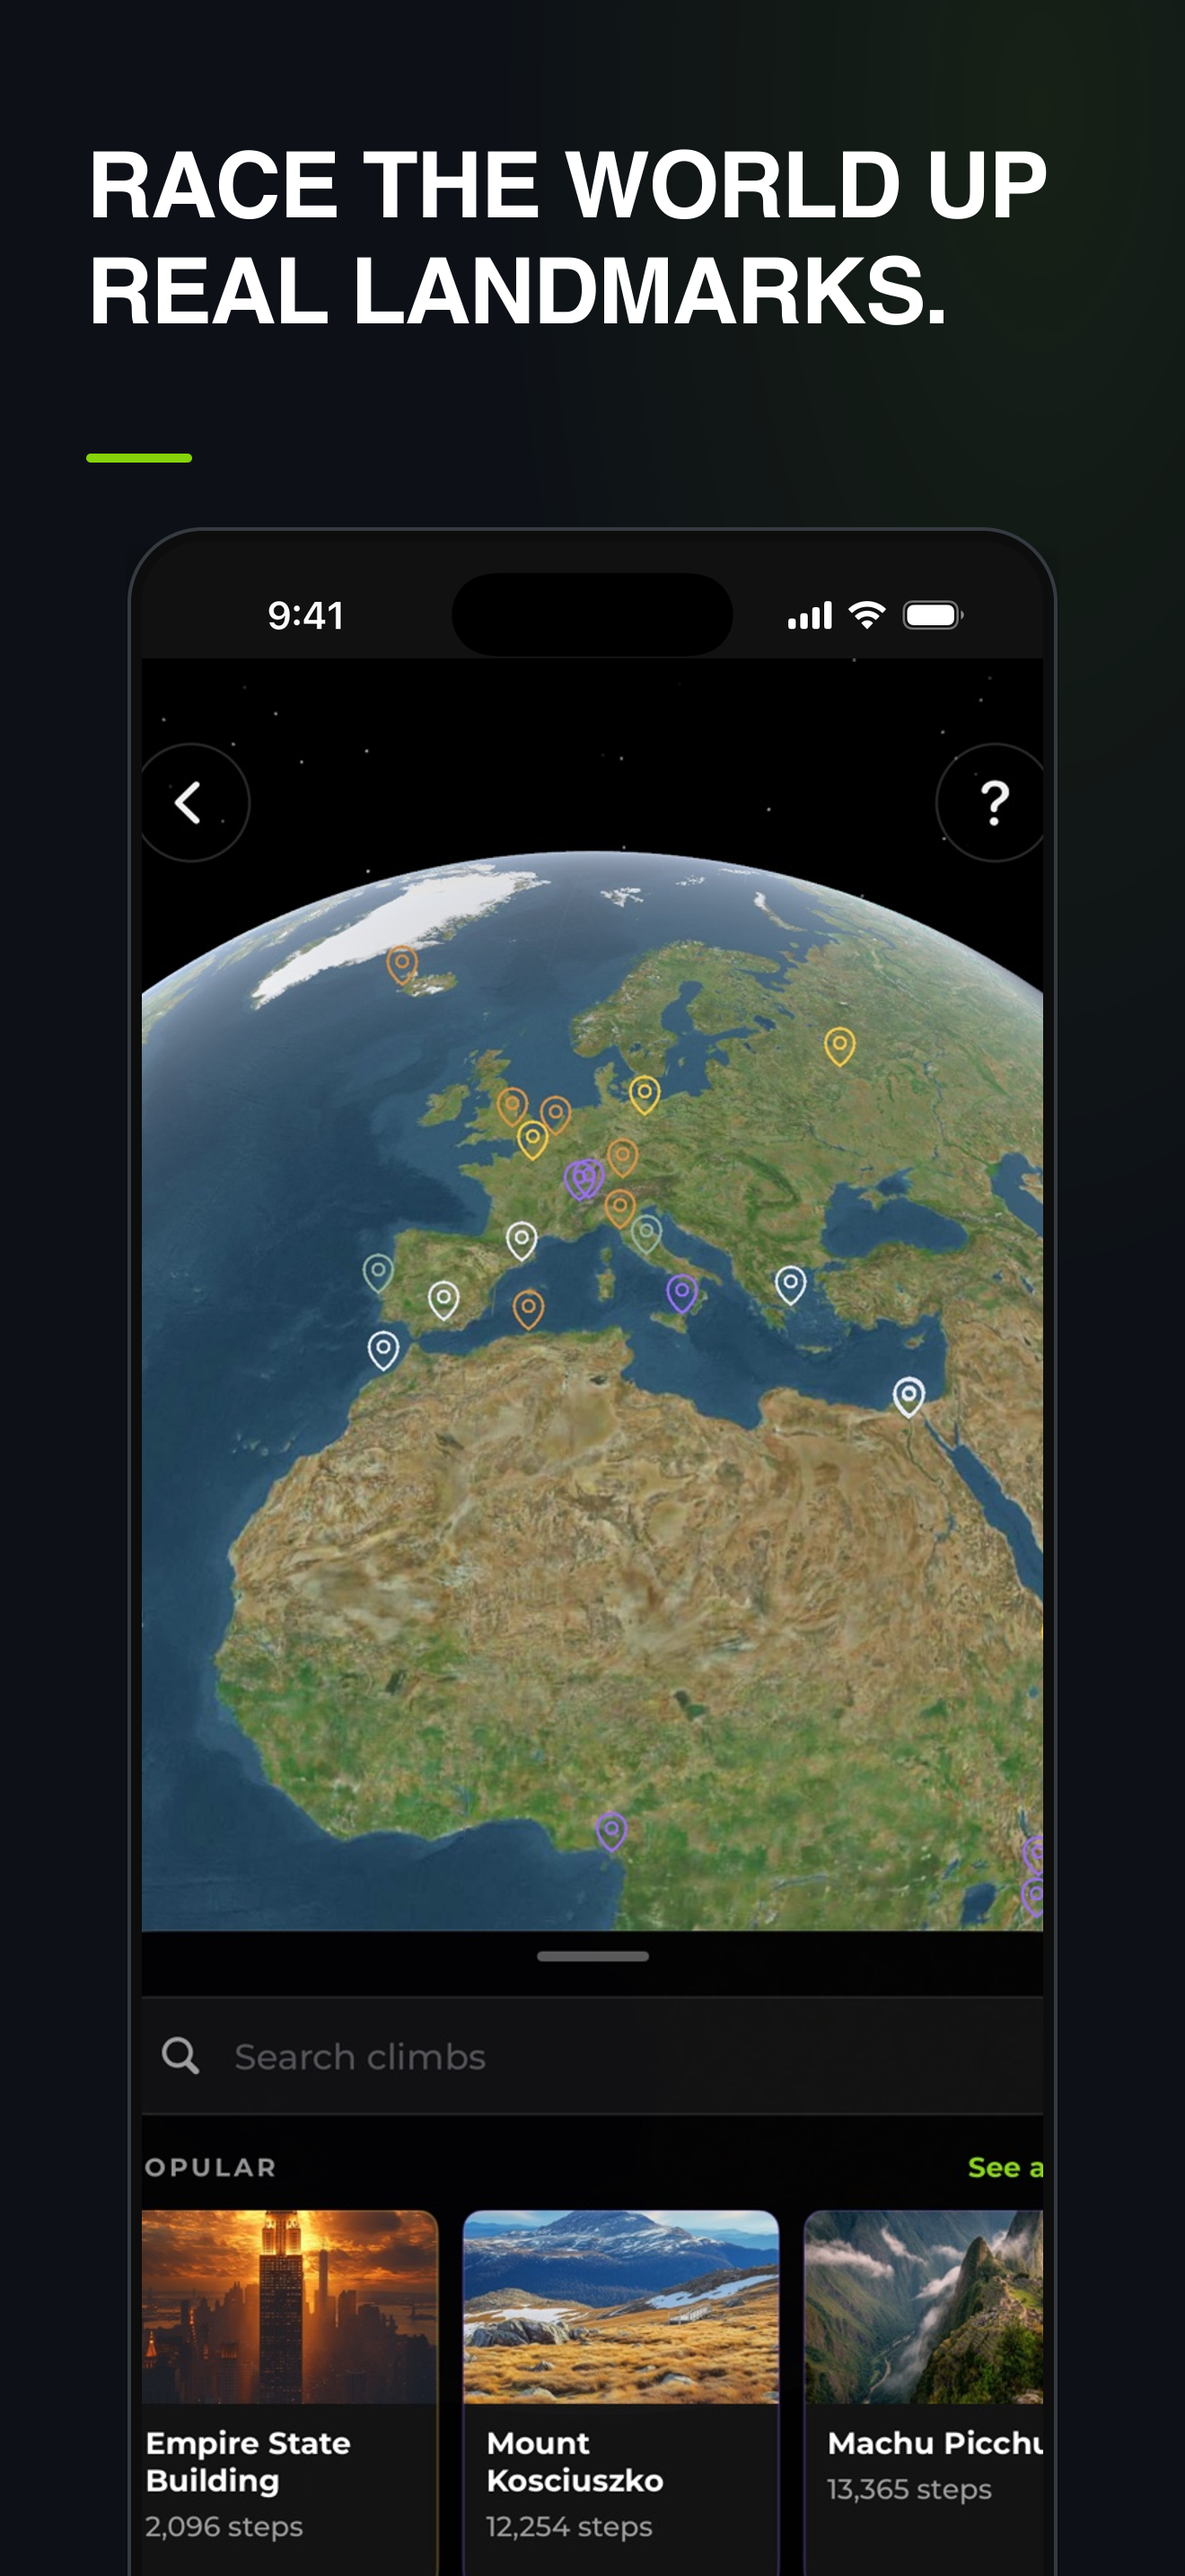
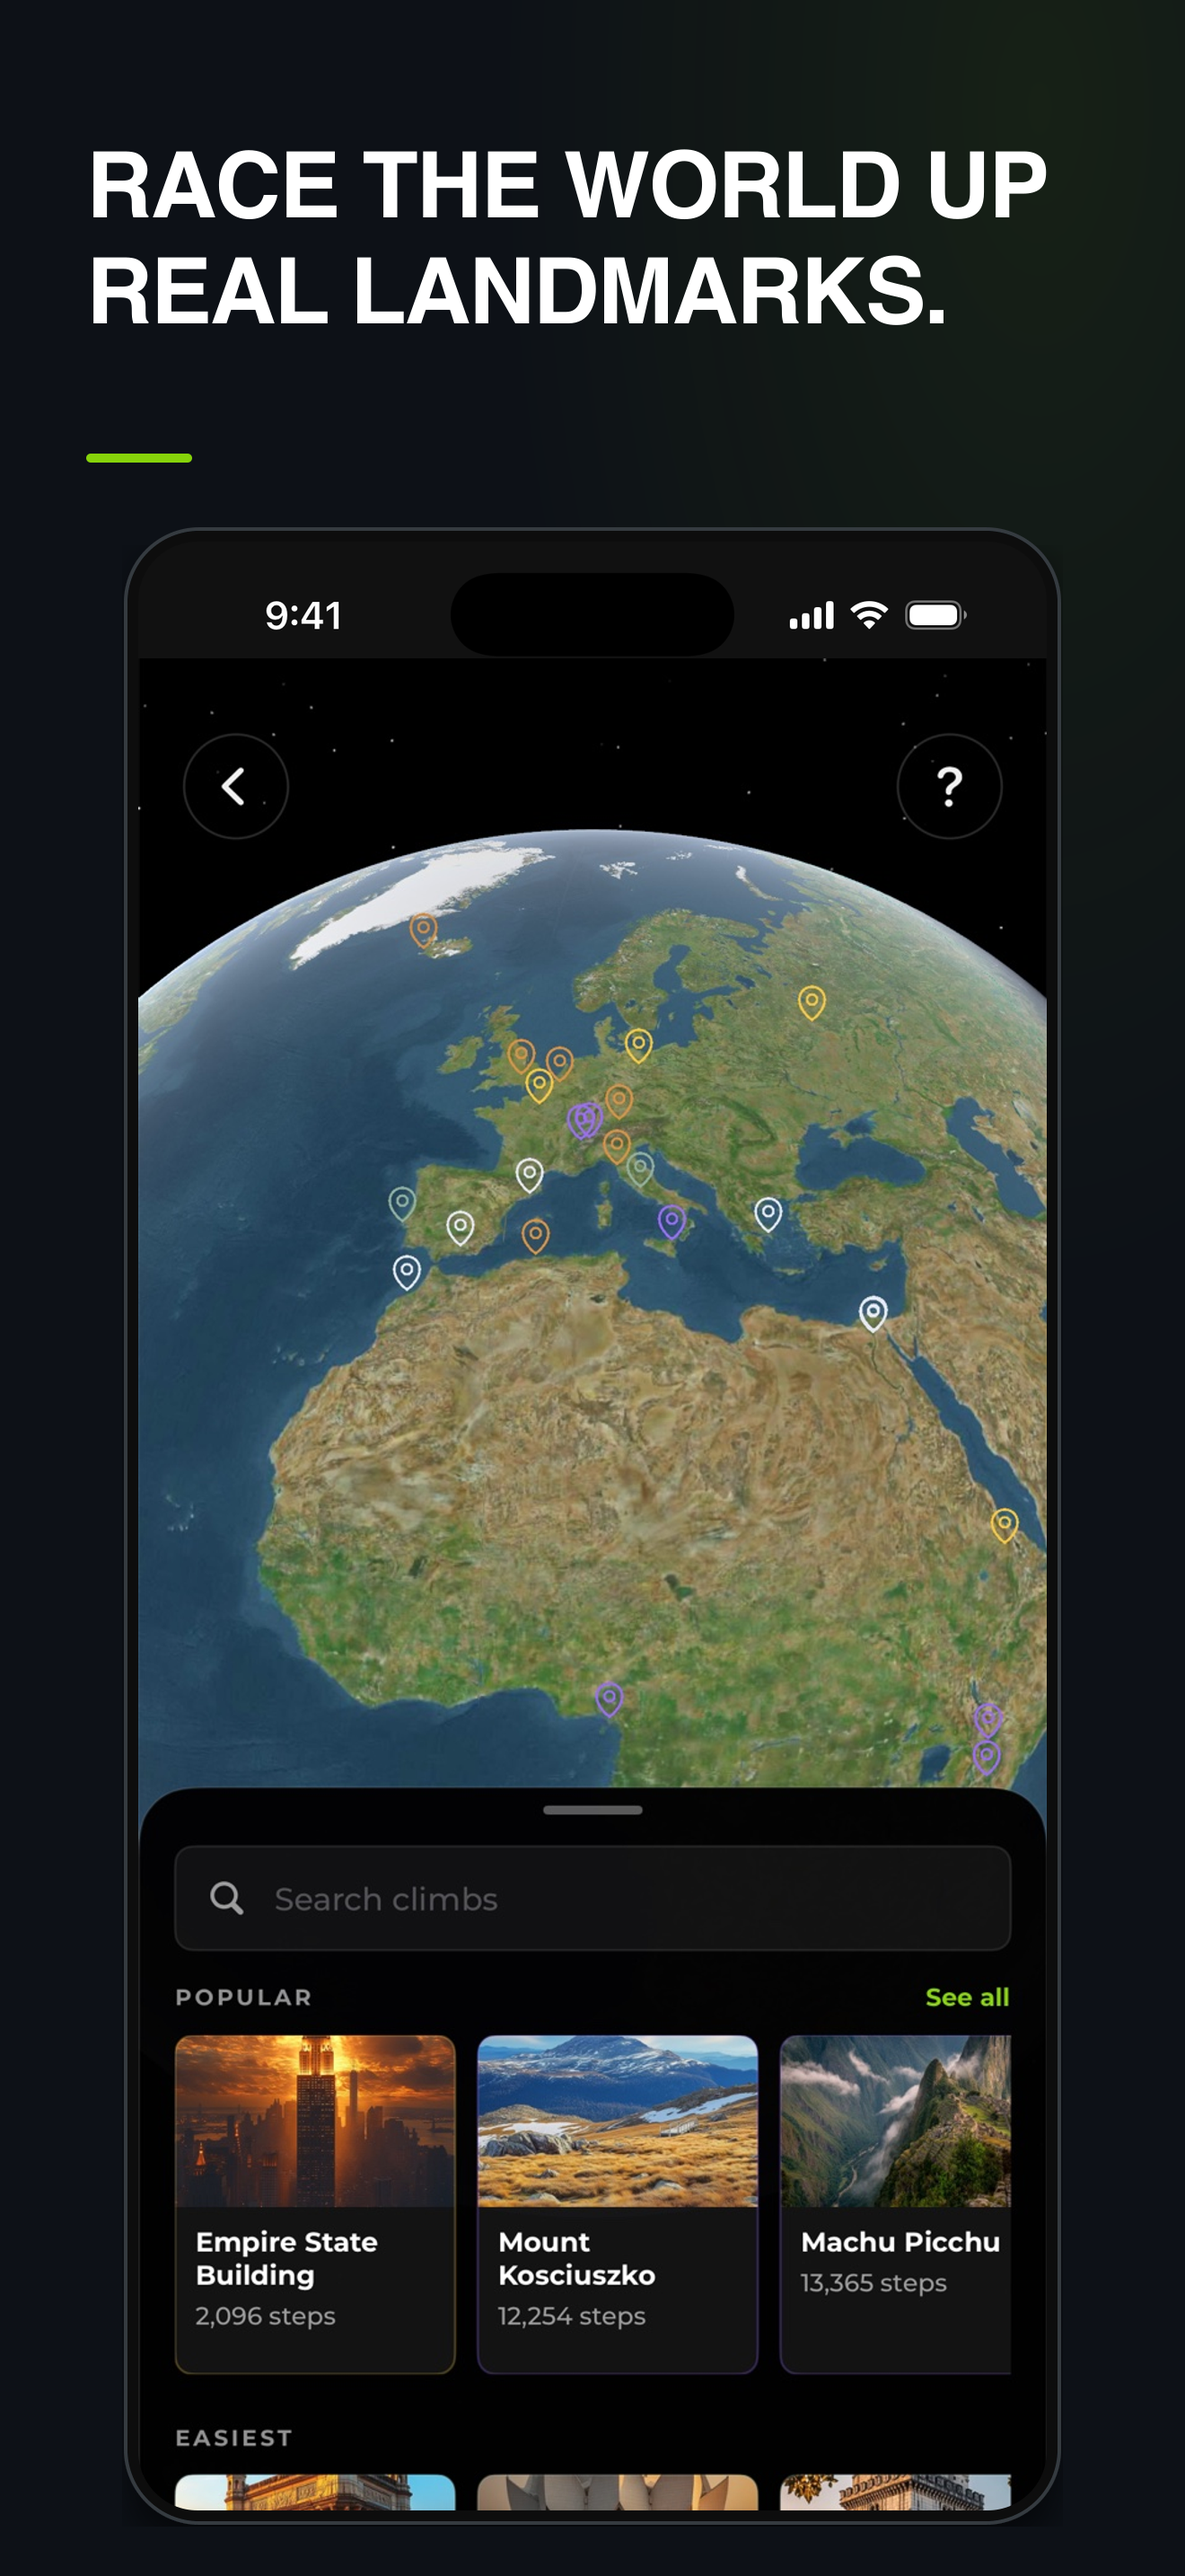
no-mistakes(review): fix App Store screenshot cropping, framing, and sources

Changed region(s): [[0.0932, 0.2172, 0.9008, 1.0], [0.1553, 0.2793, 0.2174, 0.3414], [0.2174, 0.2172, 0.2795, 0.2483]]

diff --git a/AppStoreAssets/qa/review.md b/AppStoreAssets/qa/review.md
@@ -8,12 +8,16 @@ The seven screens form a coherent progression from stair-stepper effort, to Ever
 ## Composition
 
 - All seven screenshots use the same phone geometry, inset height, inset width, and vertical placement.
-- Screens 01 and 02 have equal visual weight.
-- The two approved photographs remain full-bleed and byte-identical to the preserved source files.
-- Both photographic screens now carry genuine Ascend UI.
+- The phone screen is 1012 x 2192, the 19.5:9 proportion of the device the captures came from, so every capture lands at its true shape.
+- The whole device sits inside the canvas: 1048 x 2228 at (136, 585) ends 55px above the bottom edge, so nothing is sliced by the canvas.
+- Every app body is scaled by width only. No screen loses a column of app UI, so no header, card corner, icon, wreath, row background, or control is cut off sideways.
+- Screens 03 and 05 fill the phone body from their captures with no crop at all; screens 02, 06 and 07 give up 9 rows at the very bottom of the capture; screen 04 gives up its blank leading padding and its home indicator.
+- Where app content meets the bottom of the phone screen - the Easiest carousel on 03, the fourth leaderboard row on 05 - it is the capture's own scroll edge, framed by the device bezel, exactly as the running app renders it.
+- Screens 01 and 02 have equal visual weight and identical device framing.
+- The two approved photographs are full-bleed and byte-identical to the preserved source files; the canvas is within half a percent of their aspect, so the fit is effectively uncropped.
+- Both photographic screens carry genuine Ascend UI.
 - No source is letterboxed.
-- No primary action is partially visible at the bottom edge.
-- Screen 04 is deliberately cropped above its active session control so no sliced control appears.
+- No action, primary or secondary, is partially visible at any edge.
 - Every app body begins below the status bar at a complete UI boundary.
 
 ## Status bar
@@ -21,20 +25,31 @@ The seven screens form a coherent progression from stair-stepper effort, to Ever
 - Every screenshot shows 9:41.
 - Every screenshot shows full cellular signal, full Wi-Fi, and full battery.
 - Every screenshot shows the same correctly proportioned Dynamic Island pill.
-- The shared interior status-bar pixels are hash-identical across all seven outputs.
+- The status-bar master is extracted at 1206 x 155 and scaled to 1012 x 130, the same proportion, so the pill and glyphs are not distorted.
+- The shared interior status-bar pixels are hash-identical across all seven outputs, which is the renderer's guard against a later layer overdrawing that band.
 
 ## Content coherence
 
-- Screen 01 pairs stair-stepper effort photography with the genuine Live Climb recap itself: 15th global rank, 2,096 steps, 98 SPM, 23:53, 110 floors, and Empire State Building.
+- Screen 01 pairs stair-stepper effort photography with the genuine Live Climb recap card: 15th global rank, 2,096 steps, 98 SPM, 23:53, 110 floors, and Empire State Building.
+- Screen 01's phone body is the widest chrome-free window of the real share capture - the card and the app background around it - centred on the card, with the window's own edge tone continuing to the top and bottom of the screen. There is no invented gradient and no invented app surface.
 - Screen 01 contains no share-sheet title, dismissal control, explanatory copy, or share-destination buttons.
-- Screen 02 pairs its Everest headline with an app surface that visibly includes the Everest card and names Mt. Everest in its supporting copy.
-- Screen 03 shows the live globe and real landmark catalog.
-- Screen 04 shows an in-progress replay leaderboard with the current climber highlighted.
+- Screen 02 pairs its Everest headline with an app surface that visibly includes the Everest card and names Mt. Everest in its supporting copy. All six landmark cards are whole.
+- Screen 03 shows the live globe and real landmark catalog, with the Popular header, its See all action, and the Machu Picchu card complete.
+- Screen 04 shows an in-progress replay leaderboard with the current climber highlighted and the real, enabled End attempt control. Nothing below the list is painted in.
 - Screen 05 shows the per-climb completion leaderboard and does not use the known-bad split-summary capture.
-- Screen 06 shows the real First Ascent badge, First Ascent copy, and a genuinely enabled notification action.
-- Screen 07 shows a real Best Effort record and its progression chart.
+- Screen 06 shows the real First Ascent badge, First Ascent copy, a genuinely enabled notification action, and its complete Skip control.
+- Screen 07 shows a real Best Effort record, its whole laurel wreath, and its progression chart with a complete axis.
 - No disabled primary action appears anywhere in the set.
 - No control was recolored or rebuilt to imply a state the app was not in.
+
+## Cross-screen numbers
+
+- Empire State Building is 2,096 steps on screens 01, 03, 04 and 05.
+- Screen 01's "15th out of 20" and screen 05's "83 completed" measure different things and coexist in one dataset. The recap card's denominator is `completedCountAtCompletion`, frozen when that climb was published (`LiveReplayPublishStatus`), while the climb leaderboard shows the count today. Finishing 15th of the 20 who had completed the climb, with 63 finishing since, is one consistent history.
+- Screen 04's live window ranks the same climber 15th among the replay field, which is the same standing the recap froze.
+- Screen 05's top times check out against the step count: 12:18 at 170 avg SPM, 13:22 at 157, and 13:27 at 156 all resolve to 2,096 steps.
+- Screen 01's 98 SPM is over moving time and 23:53 is elapsed time, which is why the two do not multiply to 2,096.
+- Screen 07's 10,849 steps at +1,471 over the previous record matches its chart, which ends just above 10,000 on a Mar 2026 axis.
 
 ## Output validation
 
@@ -42,3 +57,4 @@ The seven screens form a coherent progression from stair-stepper effort, to Ever
 - Every file is exactly 1320 x 2868.
 - Every file is sRGB.
 - No file has an alpha channel.
+- The renderer refuses to run if the phone frame would bleed past the canvas, and refuses to build a body from a capture that is too short to fill the screen without cropping sideways.

diff --git a/AppStoreAssets/README.md b/AppStoreAssets/README.md
@@ -14,27 +14,49 @@ The app target is iPhone-only, so there is no iPad set.
 
 ## Source integrity
 
-The two approved transformation photographs are preserved in `sources/`.
+Every input lives in `sources/`, so the package renders the same whatever else changes in the repository.
+Nothing is read from `web/`.
+
+The two approved transformation photographs are preserved as `01-stair-stepper-effort.png` and `02-everest-summit.png`.
 They are used as full-bleed backgrounds rather than replaced.
 
-Every screen contains genuine Ascend UI.
-Screen 01 isolates the genuine Live Climb recap card from the real app capture, with the surrounding share workflow removed.
-Screen 02 uses a Simulator capture of Ascend's landmark onboarding surface, including its Everest card.
-Screens 03 through 05 use the real globe, live replay leaderboard, and per-climb leaderboard captures.
-Screen 06 uses a Simulator capture of Ascend's First Ascent notification surface with its genuinely enabled primary action.
-Screen 07 uses the real Best Effort detail capture.
+Every screen contains genuine Ascend UI, taken whole:
+
+| Screen | Capture |
+|---|---|
+| 01 | `real-ui-live-climb-share.png` - the Live Climb recap card, share workflow cropped away |
+| 02 | `real-ui-landmarks.png` - landmark onboarding, including the Everest card |
+| 03 | `real-ui-globe-browse.jpg` - the live globe and climb catalog |
+| 04 | `real-ui-live-attempt-leaderboard.png` - an in-progress replay leaderboard |
+| 05 | `real-ui-climb-leaderboard.jpg` - the per-climb completion leaderboard |
+| 06 | `real-ui-first-ascent.png` - the First Ascent notification surface |
+| 07 | `real-ui-best-effort.png` - a Best Effort record and its progression chart |
+
+## Geometry
+
+The phone screen is sized from the captures rather than the other way round.
+Every capture is a whole 19.5:9 iPhone screen, so the inner screen is 1012 x 2192 and each capture lands at its true proportions.
+Scaling is always width-driven, which is what keeps app text, card edges and controls off the crop line.
+
+The whole device fits inside the canvas, so nothing is sliced by the canvas edge.
+Where app content does meet the bottom of the phone screen it is the capture's own scroll edge, framed by the bezel, as the running app renders it.
 
 The renderer reuses one status-bar master on all seven screens.
 That master supplies the same 9:41 clock, full signal, full Wi-Fi, full battery, and correctly placed Dynamic Island pill.
-The app body begins below the normalized status band at a complete UI boundary.
+
+Screen 01 is the one screen whose subject is smaller than a phone screen: the recap card is roughly half a screen tall.
+Its body is the widest chrome-free window of the real capture, centred on the card, with that window's own edge tone continuing to the top and bottom of the screen.
 
 ## Render
 
-Install the website dependencies, then run the renderer from the repository root:
+Install the website dependencies, then run the renderer from anywhere:
 
 ```bash
 npm --prefix web ci
 node AppStoreAssets/render-screenshots.mjs
 ```
 
-The renderer validates the exact file count, dimensions, sRGB color space, and absence of alpha before writing the contact sheet.
+`sharp` is resolved from `web/node_modules`; every other path is derived from the script's own location.
+
+Before writing anything the renderer checks that the phone frame fits inside the canvas, and it refuses to build a body from a capture too short to fill the screen without cropping sideways.
+After rendering it validates the exact file count, dimensions, sRGB color space, absence of alpha, and status-bar uniformity, then writes the contact sheet.
